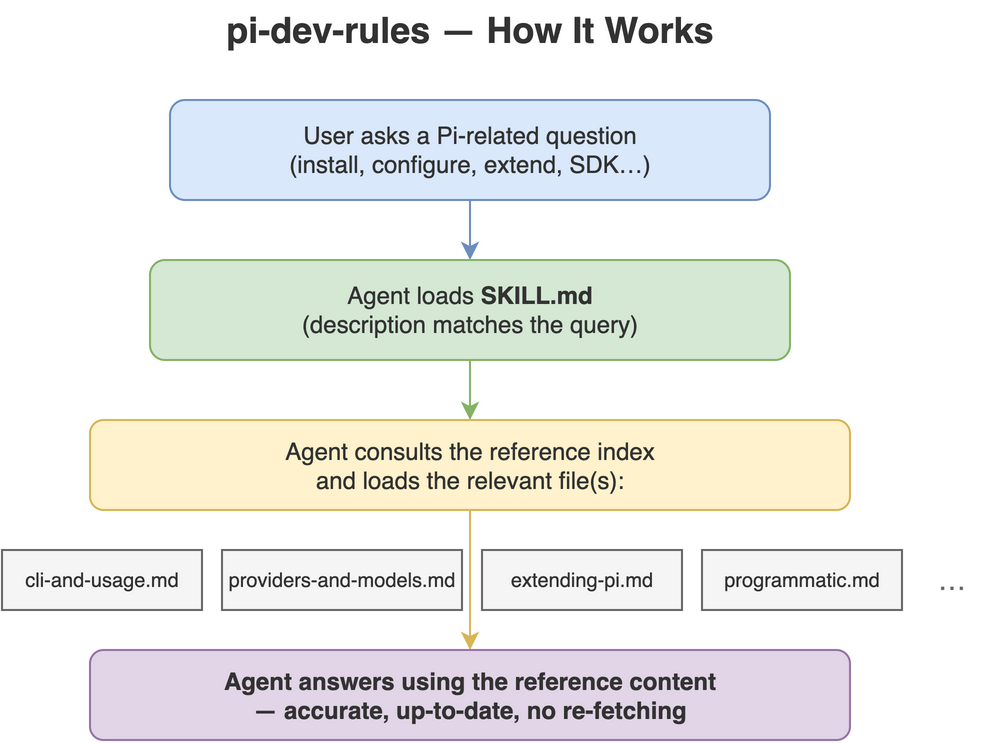
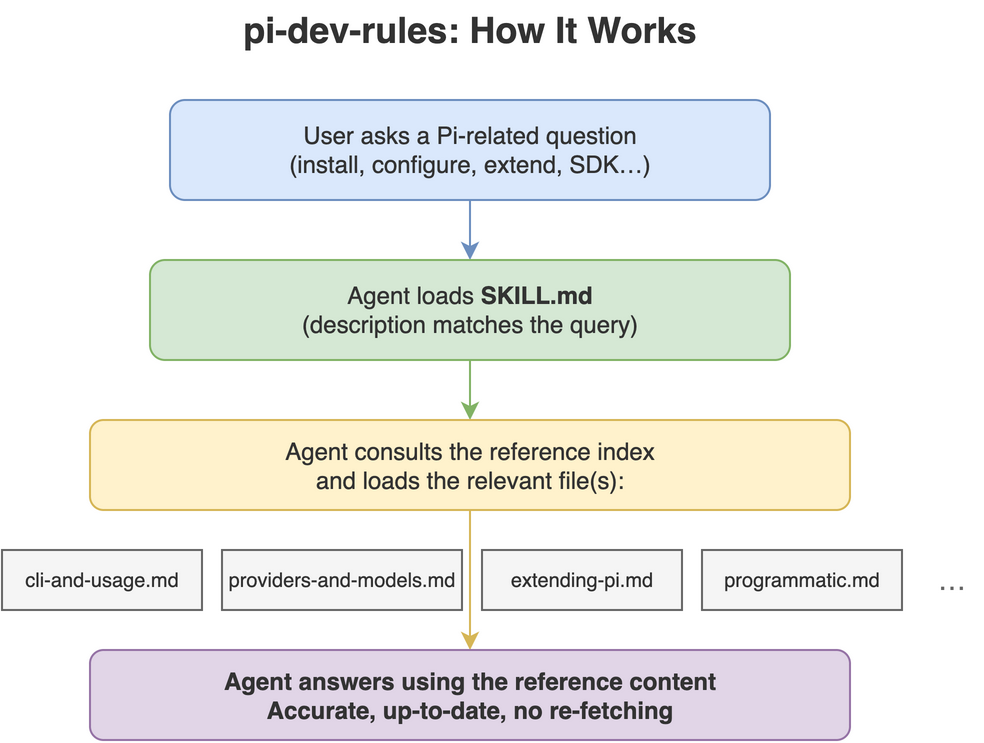
pi-dev-rules: remove em-dashes from generated headers and own docs
build-references.py and fetch-changelog.py emitted em-dash headers
("# Pi — CLI, ..."); switch to colons and regenerate the 10 bundles plus
the changelog. Also clean the em-dashes in SKILL.md, README.md, README_CN.md,
the refresh.sh comment, and both workflow .drawio diagrams (PNGs re-exported
with drawio -x -f png -s 2, same 984x743 geometry).

Delete two leftover .ruff_cache dirs under scripts/ and add .ruff_cache/
to .gitignore so they cannot be committed again.

Mirrored upstream body text keeps its original punctuation.

Changed region(s): [[0.2744, 0.9287, 0.7012, 0.9906], [0.2134, 0.0, 0.7317, 0.0619]]

diff --git a/plugins/pi-dev-rules/skills/pi-dev-rules/scripts/build-references.py b/plugins/pi-dev-rules/skills/pi-dev-rules/scripts/build-references.py
@@ -76,43 +76,43 @@ BUNDLES = {
 # Map: output_file → (header_line, source_urls_comment_line)
 HEADER_DOCS = {
     "cli-and-usage.md": (
-        "# Pi — CLI, Usage, Sessions & Keybindings",
+        "# Pi: CLI, Usage, Sessions & Keybindings",
         "Source: https://pi.dev/docs/latest/quickstart, /usage, /environment-variables, /sessions, /keybindings",
     ),
     "providers-and-models.md": (
-        "# Pi — Providers & Custom Models",
+        "# Pi: Providers & Custom Models",
         "Source: https://pi.dev/docs/latest/providers, /llama-cpp, /models, /custom-provider",
     ),
     "settings-and-compaction.md": (
-        "# Pi — Settings & Compaction",
+        "# Pi: Settings & Compaction",
         "Source: https://pi.dev/docs/latest/settings, /compaction",
     ),
     "extending-pi.md": (
-        "# Extending Pi — Extensions, Skills, Prompt Templates, Themes, Packages",
+        "# Extending Pi: Extensions, Skills, Prompt Templates, Themes, Packages",
         "Source: https://pi.dev/docs/latest/extensions, /skills, /prompt-templates, /themes, /packages\nSee also: `tui-components.md` (custom UI), `session-format.md` (entry/message schema).",
     ),
     "tui-components.md": (
-        "# Pi — TUI Components",
+        "# Pi: TUI Components",
         "Source: https://pi.dev/docs/latest/tui",
     ),
     "security-and-containerization.md": (
-        "# Pi — Security & Containerization",
+        "# Pi: Security & Containerization",
         "Source: https://pi.dev/docs/latest/security, /containerization",
     ),
     "session-format.md": (
-        "# Pi — Session Format",
+        "# Pi: Session Format",
         "Source: https://pi.dev/docs/latest/session-format",
     ),
     "programmatic.md": (
-        "# Pi — Programmatic Usage (SDK, RPC, JSON)",
+        "# Pi: Programmatic Usage (SDK, RPC, JSON)",
         "Source: https://pi.dev/docs/latest/sdk, /rpc, /json",
     ),
     "platform-setup.md": (
-        "# Pi — Platform Setup & Development",
+        "# Pi: Platform Setup & Development",
         "Source: https://pi.dev/docs/latest/windows, /termux, /tmux, /terminal-setup, /shell-aliases",
     ),
     "development.md": (
-        "# Pi — Development (Build from Source)",
+        "# Pi: Development (Build from Source)",
         "Source: https://pi.dev/docs/latest/development",
     ),
 }

diff --git a/plugins/pi-dev-rules/skills/pi-dev-rules/scripts/fetch-changelog.py b/plugins/pi-dev-rules/skills/pi-dev-rules/scripts/fetch-changelog.py
@@ -130,7 +130,7 @@ def parse_rss():
 
 def build_changelog(entries):
     lines = []
-    lines.append("# Pi — Changelog")
+    lines.append("# Pi: Changelog")
     lines.append("")
     lines.append("Source: <https://pi.dev/news> · RSS: `https://pi.dev/news.xml`")
     lines.append("")

diff --git a/plugins/pi-dev-rules/skills/pi-dev-rules/SKILL.md b/plugins/pi-dev-rules/skills/pi-dev-rules/SKILL.md
@@ -27,7 +27,7 @@ and build Pi customizations without re-fetching.
   tools, YOLO by default, no MCP/plan mode/to-dos/sub-agents) and how to configure/extend Pi along
   those lines instead of against them.
 
-## Reference index — load the file you need
+## Reference index: load the file you need
 
 | File | Covers |
 | ------ | -------- |
@@ -37,12 +37,12 @@ and build Pi customizations without re-fetching.
 | `references/extending-pi.md` | Extension API (events, tools, commands, UI), Skills (SKILL.md), Prompt Templates, Themes, Packages |
 | `references/tui-components.md` | TUI component system for custom extension/tool UIs (components, overlays, theming, custom editor) |
 | `references/security-and-containerization.md` | Project-trust model (`trust.json`, `defaultProjectTrust`), no built-in sandbox, Gondolin micro-VM, Docker, OpenShell, Docker Sandboxes |
-| `references/session-format.md` | Session JSONL schema — versions, content blocks, message/entry types, tree/context building, SessionManager API |
+| `references/session-format.md` | Session JSONL schema: versions, content blocks, message/entry types, tree/context building, SessionManager API |
 | `references/programmatic.md` | SDK, RPC mode, JSON event-stream mode |
 | `references/platform-setup.md` | Windows, Termux, tmux, per-terminal modified-Enter setup, shell aliases, build-from-source |
 | `references/development.md` | Building Pi from source, monorepo structure, forking/rebranding, debugging |
 | `references/philosophy-and-design.md` | Creator Mario Zechner's design manifesto (blog, 2025-11-30): minimal prompt <1000 tokens, 4 tools, YOLO by default, non-features (no MCP/plan/to-dos/sub-agents/background bash) with their intended alternatives, multi-provider architecture, Terminal-Bench 2.0 results (manually curated, not auto-built) |
-| `references/changelog.md` | pi.dev/news release notes — recent versions, RSS feed, how to fetch latest |
+| `references/changelog.md` | pi.dev/news release notes: recent versions, RSS feed, how to fetch latest |
 
 ## Starter plugins
 
@@ -94,11 +94,11 @@ pi --mode rpc                                   # JSON-RPC over stdin/stdout
 
 - **Install package name is exactly** `@earendil-works/pi-coding-agent` with `--ignore-scripts`.
 - **Project context file is `AGENTS.md`** (Pi also reads `CLAUDE.md`); put it in the project root.
-- **Extensions run with full system permissions** — treat them as trusted code; gate dangerous
+- **Extensions run with full system permissions**: treat them as trusted code; gate dangerous
   ops (`rm`, `sudo`, sensitive paths) with `ctx.ui.confirm` or a `tool_call` block handler.
 - **Project trust is an input-loading guard, not a sandbox.** Pi ships no built-in sandbox; a project
   is "trusted" only to decide whether to load its `.pi/` resources (settings/extensions/skills/
-  prompts/themes) — decisions live in `~/.pi/agent/trust.json`, governed by `defaultProjectTrust`
+  prompts/themes); decisions live in `~/.pi/agent/trust.json`, governed by `defaultProjectTrust`
   (`ask`/`always`/`never`), overridable per run with `--approve`/`--no-approve`. For untrusted repos
   or unattended runs, isolate with a container/VM (Gondolin/Docker/OpenShell); don't mount host
   `~/.pi/agent` unless the sandbox should see host credentials.

diff --git a/plugins/pi-dev-rules/README.md b/plugins/pi-dev-rules/README.md
@@ -17,8 +17,8 @@ run, and **extend Pi** without re-fetching the docs.
 Mirrors <https://pi.dev/docs/latest> (fetched 2026-09-14).
 
 Works with Claude Code, Cursor, Codex, Copilot, Windsurf, Cline / Roo Code, Gemini CLI,
-Aider, Zed, OpenCode, OpenClaw / ClawHub, Hermes, pi-mono — plus major Chinese agents
-(Trae, Qwen Code / Tongyi Lingma, Baidu Comate, CodeGeeX) — and any agent that reads
+Aider, Zed, OpenCode, OpenClaw / ClawHub, Hermes, pi-mono, plus major Chinese agents
+(Trae, Qwen Code / Tongyi Lingma, Baidu Comate, CodeGeeX), and any agent that reads
 `AGENTS.md` or the [Agent Skills](https://agentskills.io) format.
 
 <p align="center">
@@ -27,22 +27,22 @@ Aider, Zed, OpenCode, OpenClaw / ClawHub, Hermes, pi-mono — plus major Chinese
 
 ## What's inside
 
-- `SKILL.md` — overview, when-to-use, cheat sheet, hard rules, reference index.
-- `references/cli-and-usage.md` — install, auth, CLI flags, slash commands, message queue, context
+- `SKILL.md`: overview, when-to-use, cheat sheet, hard rules, reference index.
+- `references/cli-and-usage.md`: install, auth, CLI flags, slash commands, message queue, context
   files, env vars, sessions, keybindings.
-- `references/providers-and-models.md` — providers (30+), `auth.json` (+ scoped `env`), cloud
+- `references/providers-and-models.md`: providers (30+), `auth.json` (+ scoped `env`), cloud
   providers, custom `models.json`, `compat`, custom-provider extensions.
-- `references/settings-and-compaction.md` — `settings.json` (trust/analytics/retry/transport),
+- `references/settings-and-compaction.md`: `settings.json` (trust/analytics/retry/transport),
   auto/manual compaction, branch summaries.
-- `references/extending-pi.md` — extensions API, skills (SKILL.md), prompt templates, themes, packages.
-- `references/tui-components.md` — TUI component system for custom extension/tool UIs.
-- `references/security-and-containerization.md` — project-trust model, no built-in sandbox, Gondolin
+- `references/extending-pi.md`: extensions API, skills (SKILL.md), prompt templates, themes, packages.
+- `references/tui-components.md`: TUI component system for custom extension/tool UIs.
+- `references/security-and-containerization.md`: project-trust model, no built-in sandbox, Gondolin
   micro-VM, Docker, OpenShell.
-- `references/session-format.md` — session JSONL schema, message/entry types, SessionManager API.
-- `references/programmatic.md` — SDK, RPC mode, JSON event-stream mode.
-- `references/platform-setup.md` — Windows, Termux, tmux, per-terminal setup, shell aliases,
+- `references/session-format.md`: session JSONL schema, message/entry types, SessionManager API.
+- `references/programmatic.md`: SDK, RPC mode, JSON event-stream mode.
+- `references/platform-setup.md`: Windows, Termux, tmux, per-terminal setup, shell aliases,
   build-from-source.
-- `references/development.md` — building Pi from source, monorepo structure, forking/rebranding,
+- `references/development.md`: building Pi from source, monorepo structure, forking/rebranding,
   debugging.
 - `references/philosophy-and-design.md` (the creator's design manifesto, Mario Zechner's blog post,
   2025-11-30): why minimal, the 4-tool philosophy, YOLO by default, the explicit non-features (no

diff --git a/plugins/pi-dev-rules/skills/pi-dev-rules/references/extending-pi.md b/plugins/pi-dev-rules/skills/pi-dev-rules/references/extending-pi.md
@@ -1,4 +1,4 @@
-# Extending Pi — Extensions, Skills, Prompt Templates, Themes, Packages
+# Extending Pi: Extensions, Skills, Prompt Templates, Themes, Packages
 
 Source: <https://pi.dev/docs/latest/extensions>, /skills, /prompt-templates, /themes, /packages
 See also: `tui-components.md` (custom UI), `session-format.md` (entry/message schema).

diff --git a/plugins/pi-dev-rules/skills/pi-dev-rules/references/cli-and-usage.md b/plugins/pi-dev-rules/skills/pi-dev-rules/references/cli-and-usage.md
@@ -1,4 +1,4 @@
-# Pi — CLI, Usage, Sessions & Keybindings
+# Pi: CLI, Usage, Sessions & Keybindings
 
 Source: <https://pi.dev/docs/latest/quickstart>, /usage, /environment-variables, /sessions, /keybindings
 

diff --git a/plugins/pi-dev-rules/skills/pi-dev-rules/references/platform-setup.md b/plugins/pi-dev-rules/skills/pi-dev-rules/references/platform-setup.md
@@ -1,4 +1,4 @@
-# Pi — Platform Setup & Development
+# Pi: Platform Setup & Development
 
 Source: <https://pi.dev/docs/latest/windows>, /termux, /tmux, /terminal-setup, /shell-aliases
 

diff --git a/plugins/pi-dev-rules/skills/pi-dev-rules/references/providers-and-models.md b/plugins/pi-dev-rules/skills/pi-dev-rules/references/providers-and-models.md
@@ -1,4 +1,4 @@
-# Pi — Providers & Custom Models
+# Pi: Providers & Custom Models
 
 Source: <https://pi.dev/docs/latest/providers>, /llama-cpp, /models, /custom-provider
 

diff --git a/plugins/pi-dev-rules/skills/pi-dev-rules/references/programmatic.md b/plugins/pi-dev-rules/skills/pi-dev-rules/references/programmatic.md
@@ -1,4 +1,4 @@
-# Pi — Programmatic Usage (SDK, RPC, JSON)
+# Pi: Programmatic Usage (SDK, RPC, JSON)
 
 Source: <https://pi.dev/docs/latest/sdk>, /rpc, /json
 

diff --git a/plugins/pi-dev-rules/skills/pi-dev-rules/references/security-and-containerization.md b/plugins/pi-dev-rules/skills/pi-dev-rules/references/security-and-containerization.md
@@ -1,4 +1,4 @@
-# Pi — Security & Containerization
+# Pi: Security & Containerization
 
 Source: <https://pi.dev/docs/latest/security>, /containerization
 

diff --git a/plugins/pi-dev-rules/skills/pi-dev-rules/references/development.md b/plugins/pi-dev-rules/skills/pi-dev-rules/references/development.md
@@ -1,4 +1,4 @@
-# Pi — Development (Build from Source)
+# Pi: Development (Build from Source)
 
 Source: <https://pi.dev/docs/latest/development>
 
